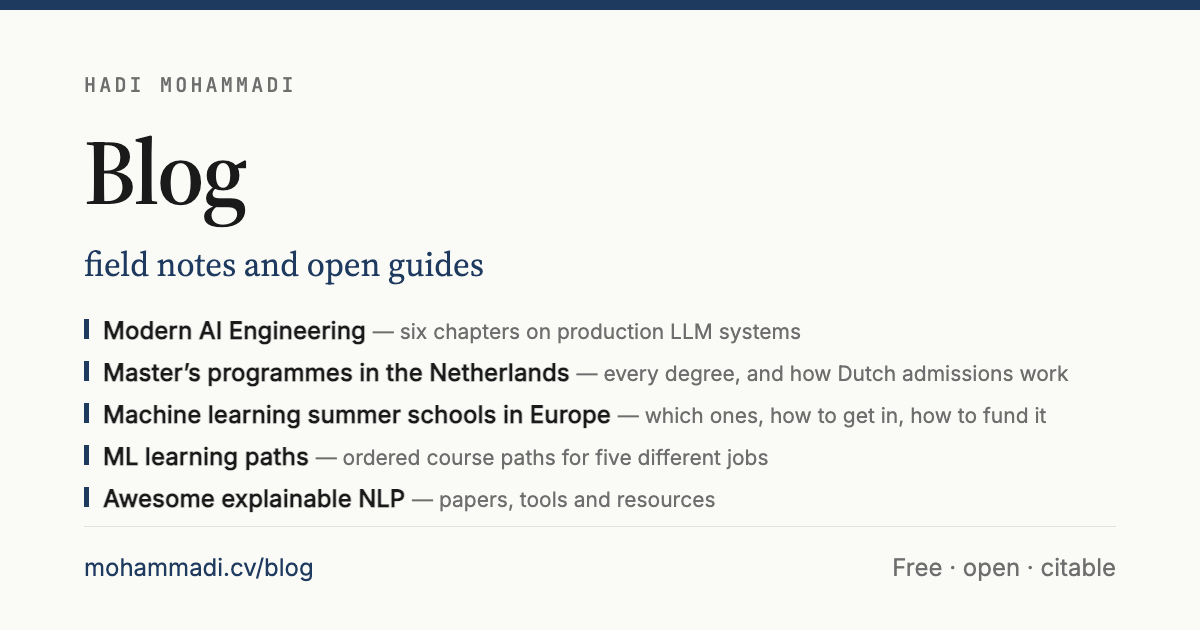
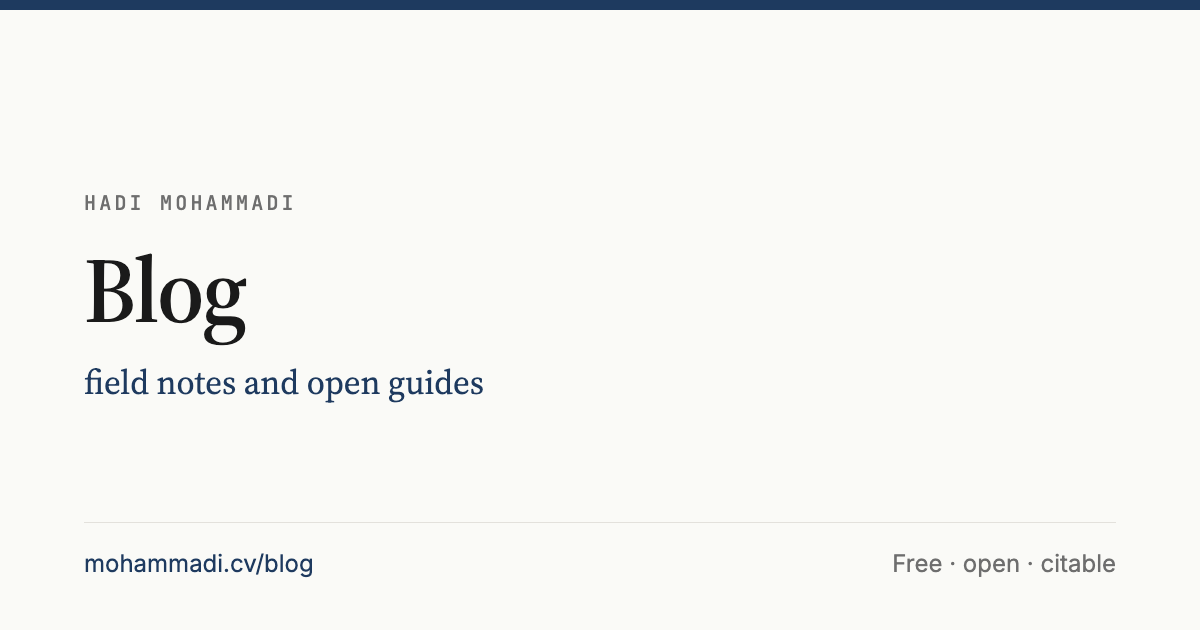
Simplify the software and blog preview cards

diff --git a/scripts/make_cards.py b/scripts/make_cards.py
@@ -30,13 +30,6 @@ SERIES = "Modern AI Engineering"
 CARDS = [
     dict(name="index", kicker="Hadi Mohammadi", title="Blog",
          subtitle="field notes and open guides",
-         bullets=[
-             ("Modern AI Engineering", "six chapters on production LLM systems"),
-             ("Master’s programmes in the Netherlands", "every degree, and how Dutch admissions work"),
-             ("Machine learning summer schools in Europe", "which ones, how to get in, how to fund it"),
-             ("ML learning paths", "ordered course paths for five different jobs"),
-             ("Awesome explainable NLP", "papers, tools and resources"),
-         ],
          foot_left="mohammadi.cv/blog", foot_right="Free · open · citable"),
     dict(name="calling-llms-well", kicker=f"{SERIES} · Chapter 1",
          title="Calling LLMs well",
@@ -129,11 +122,6 @@ CARDS = [
     dict(name="software-card", out="assets/img", kicker="Hadi Mohammadi",
          title="Software",
          subtitle="Libraries for not trusting your own numbers",
-         bullets=[
-             ("judgekit · judgepanel · arenakit", "is this judge, or this leaderboard, telling the truth?"),
-             ("abkit · abeval · calikit", "does the experiment support the decision?"),
-             ("raterkit · rankkit · explainkit", "are the labels, the ranking, the explanation sound?"),
-         ],
          foot_left="mohammadi.cv/software", foot_right="MIT · tested · citable"),
 ]
 
